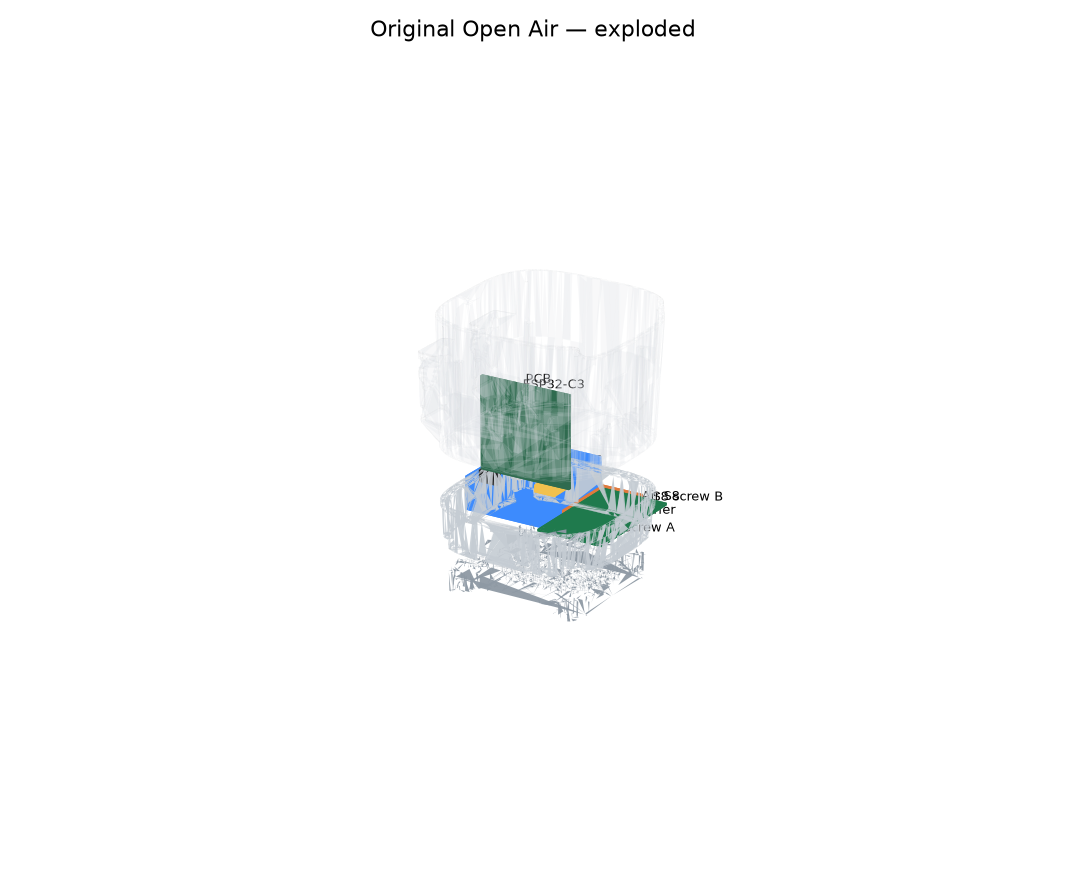
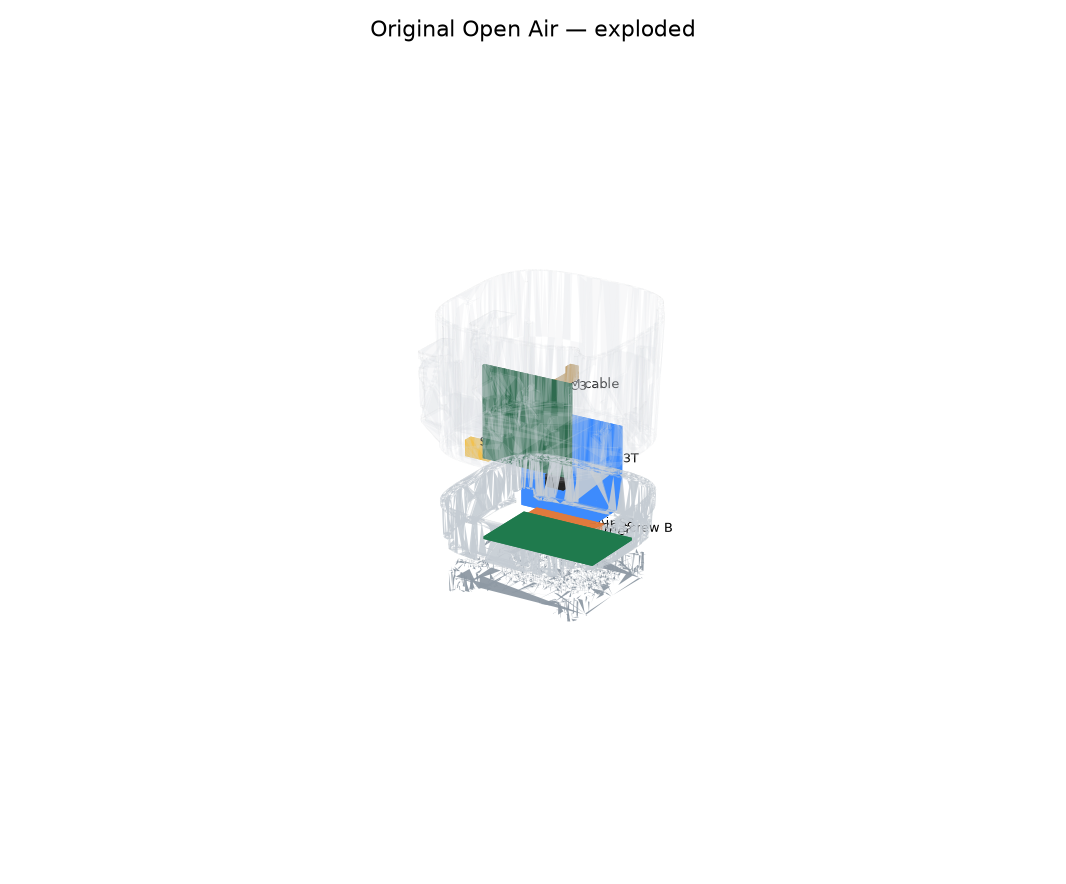
Stand the PMS5003T up behind the board.
The step-4 photo shows the sensor on end, inlet down and the cable leaving the top, not lying on the grill. The comparison render is now from that same front-left view with the cover off.

Changed region(s): [[0.4334, 0.3971, 0.6811, 0.6414]]

diff --git a/hardware/modular/enclosure/assembly/index.html b/hardware/modular/enclosure/assembly/index.html
@@ -114,7 +114,7 @@
     const DIMS = {
       "outdoor-flat": "A flat: 91.5 × 86.7 × 124 mm. Grill 3.2, base 28, cover 112. USB-C recess 18×14 mm in the base bottom. M8 Ø8.2. PM ports Ø16.",
       "outdoor-vertical": "B vertical: 91.5 × 86.7 × 106 mm. Grill 3.2, base 28, cover 94. Side bay 30 mm for a 22 mm pack plus a 4 mm PCM. Same USB, M8 and PM holes.",
-      "original": "Original O-1PST: grill down, cover up. PCB stands in the middle, USB-C on the bottom edge. PMS5003T lies flat behind it. SenseAir S8 is screwed to the floor. SGP41 faces out beside the USB. No separate SHT.",
+      "original": "Original O-1PST: grill down, cover up. PCB stands in the middle, USB-C on the bottom edge. PMS5003T stands behind it, inlet down, cable off the top. SenseAir S8 is screwed flat to the floor. No separate SHT.",
       "variant-1": "Previous variant 1. Not the three-part outdoor shell.",
       "variant-2": "Previous variant 2. Not the three-part outdoor shell.",
       "variant-3": "Previous variant 3. Not the three-part outdoor shell."

diff --git a/hardware/modular/enclosure/render_original_assembly.py b/hardware/modular/enclosure/render_original_assembly.py
@@ -22,34 +22,30 @@ ROOT = Path(__file__).resolve().parent
 REF = ROOT / "reference-outdoor"
 RENDERS = ROOT / "renders"
 
-# name, color, center (mm), size (mm)
-# Board pose: USB edge toward the cover's -X bulge, 57 mm running inward,
-# 44 mm vertical, sheet parallel to the XZ plane. See the README.
-# Pose from the O-1PST assembly photos, not from a guessed side-wall mount.
-# The board stands in the middle of the ring. Its short edge (USB, LED, button,
-# SGP41) is the bottom edge. High KiCad X is down. KiCad Y runs along world X,
-# with the USB end toward -X. The sheet is thin in Y: the PMS5003T is behind
-# it (+Y) and the SenseAir carrier is on the floor to its right (+X).
-# KiCad: USB1 (168, 67.37), D2 (166.57, 76.91), SW1 (167.80, 81.06),
-# I2C1 (165.74, 101.53), U2 (124, 83.4). Edge x 113.31..170.34, y 61.41..105.37.
+# Step-4 photo: the board stands in front of a PMS5003T that is also standing,
+# inlet end down on the tray, cable off the top. High KiCad X is down. High
+# KiCad Y (the SGP41 socket) is to the left. The sheet is thin in Y.
+# USB1 (168, 67.37), D2 (166.57, 76.91), SW1 (167.80, 81.06),
+# I2C1 (165.74, 101.53), U2 (124, 83.4), PM1 (141.71, 70.50).
 def _x(pcb_y):
-    return -22.0 + (pcb_y - 61.41)
+    return -30.0 + (105.37 - pcb_y)
 
 def _z(pcb_x):
-    return 16.0 + (170.34 - pcb_x)
+    return 14.0 + (170.34 - pcb_x)
 
 PARTS = [
-    ("PCB", "#2f6b4f", (0.0, -18.0, 44.5), (44.0, 1.6, 57.0)),
-    ("ESP32-C3", "#6b4c9a", (_x(83.40), -20.2, _z(124.00)), (13.2, 2.4, 16.6)),
-    ("USB-C", "#222222", (_x(67.37), -21.0, 14.2), (9.0, 3.2, 7.5)),
-    ("LED", "#f4f1ea", (_x(76.91), -20.4, _z(166.57)), (3.0, 2.4, 4.0)),
-    ("Button", "#d0d0d0", (_x(81.06), -20.6, _z(167.80)), (4.5, 3.0, 3.5)),
-    ("SGP41", "#f2c14e", (_x(101.53), -26.0, _z(165.74)), (10.0, 12.0, 4.5)),
-    ("PMS5003T", "#3d8bfd", (-16.0, 14.0, 22.0), (38.0, 50.0, 21.0)),
-    ("CO2 carrier", "#1f7a4d", (20.0, 12.0, 12.3), (32.0, 54.0, 1.6)),
-    ("SenseAir S8", "#e07a3d", (20.0, 12.0, 17.4), (20.0, 33.5, 8.5)),
-    ("S8 screw A", "#555555", (33.0, -8.0, 14.2), (4.0, 4.0, 3.0)),
-    ("S8 screw B", "#555555", (33.0, 32.0, 14.2), (4.0, 4.0, 3.0)),
+    ("PCB", "#2f6b4f", (-8.0, -4.0, 42.5), (44.0, 1.6, 57.0)),
+    ("ESP32-C3", "#6b4c9a", (_x(83.40), -5.8, _z(124.00)), (13.2, 2.4, 16.6)),
+    ("USB-C", "#222222", (_x(67.37), -6.2, 11.5), (9.0, 3.2, 7.5)),
+    ("LED", "#f4f1ea", (_x(76.91), -5.6, _z(166.57)), (3.0, 2.4, 4.0)),
+    ("Button", "#d0d0d0", (_x(81.06), -5.8, _z(167.80)), (4.5, 3.0, 3.5)),
+    ("SGP41", "#f2c14e", (_x(101.53) - 6.0, -4.0, _z(165.74)), (12.0, 4.5, 10.0)),
+    # 50 mm tall, 38 mm wide, 21 mm deep. Bottom face is the inlet. Outlet is up.
+    ("PMS5003T", "#3d8bfd", (2.0, 16.0, 37.0), (38.0, 21.0, 50.0)),
+    ("CO2 carrier", "#1f7a4d", (16.0, -18.0, 12.4), (54.0, 32.0, 1.6)),
+    ("SenseAir S8", "#e07a3d", (16.0, -18.0, 17.4), (33.5, 20.0, 8.5)),
+    ("S8 screw A", "#555555", (0.0, -28.0, 14.4), (4.0, 4.0, 3.0)),
+    ("S8 screw B", "#555555", (32.0, -8.0, 14.4), (4.0, 4.0, 3.0)),
 ]
 
 
@@ -70,8 +66,22 @@ def load_shells():
     return base, grill, cover
 
 
+def _cable():
+    # From the outlet on top of the standing PMS5003T, forward, down to PM1.
+    segments = [
+        ((2.0, 16.0, 66.0), (4.0, 4.0, 8.0)),
+        ((4.0, 6.0, 66.0), (4.0, 18.0, 4.0)),
+        ((5.0, -2.0, 54.0), (4.0, 4.0, 24.0)),
+    ]
+    parts = [box_mesh(c, s) for c, s in segments]
+    mesh = trimesh.util.concatenate(parts)
+    return "PM cable", "#c4a574", mesh
+
+
 def component_meshes():
-    return [(name, color, box_mesh(center, size)) for name, color, center, size in PARTS]
+    meshes = [(name, color, box_mesh(center, size)) for name, color, center, size in PARTS]
+    meshes.append(_cable())
+    return meshes
 
 
 def build_scene(exploded=False):
@@ -103,7 +113,7 @@ def export_glb():
     return path
 
 
-def _frame(path, view, elev, azim, exploded=False, section=False):
+def _frame(path, view, elev, azim, exploded=False, section=False, hide_cover=False):
     base, grill, cover = load_shells()
     if exploded:
         grill.apply_translation([0, 0, -28])
@@ -117,14 +127,16 @@ def _frame(path, view, elev, azim, exploded=False, section=False):
     ax = fig.add_subplot(111, projection="3d")
     add_mesh(ax, base, "#c5ccd3", 0.9)
     add_mesh(ax, grill, "#8e99a4", 0.95)
-    add_mesh(ax, cover, "#d9dde3", 0.18 if not section else 0.55)
-    for name, color, center, size in PARTS:
-        mesh = box_mesh(center, size)
-        if exploded and name in ("PCB", "ESP32-C3", "USB-C", "LED", "Button", "SGP41"):
+    if not hide_cover:
+        add_mesh(ax, cover, "#d9dde3", 0.18 if not section else 0.55)
+    board = {"PCB", "ESP32-C3", "USB-C", "LED", "Button", "SGP41", "PM cable"}
+    for name, color, mesh in component_meshes():
+        if exploded and name in board:
+            mesh = mesh.copy()
             mesh.apply_translation([0, 0, 28])
-            center = (center[0], center[1], center[2] + 28)
         add_mesh(ax, mesh, color, 1)
-        ax.text(center[0], center[1], center[2] + size[2] / 2 + 1.2, name, fontsize=7)
+        c = mesh.centroid
+        ax.text(c[0], c[1], c[2] + 2, name, fontsize=7)
     lo, hi = scene_bounds([base, cover, grill])
     span = (hi - lo).max() / 2 + (28 if exploded else 8)
     c = (lo + hi) / 2
@@ -179,6 +191,8 @@ def main():
     _frame(RENDERS / "original-assembly-top.png", "top", 90, 0)
     _frame(RENDERS / "original-assembly-section.png", "section", 18, -70, section=True)
     _frame(RENDERS / "original-exploded.png", "exploded", 22, -58, exploded=True)
+    # Same view as assembly step 4: cover off, from the front-left, looking down.
+    _frame(RENDERS / "original-assembly-step4.png", "step 4 angle", 30, -125, hide_cover=True)
     legend()
 
 

diff --git a/hardware/modular/enclosure/README.md b/hardware/modular/enclosure/README.md
@@ -57,9 +57,9 @@ There is no separate SHT. Temperature and humidity are read inside the PMS5003T.
 | --- | --- | --- |
 | White cover up, blue grill down, USB-C plugged into the blue end beside the LED hole and the button slot | Closed unit, photo `unnamed-9` | Grill at the bottom (z = 0), cover sleeved on from above. USB, LED and button are on the bottom edge of the board |
 | SGP41 plugged into the socket on the same edge as the USB, facing out, with the button and LED between it and the USB | Step 1, photo `unnamed-2`, and the bare board in step 4's wiring photo `unnamed-5` | Socket I2C1. The module sticks out past that edge. Thickness 4.5 mm is still a guess; the 10 × 12 mm outline is the KiCad edge |
-| SenseAir carrier lying flat in the blue tray, silver S8 on top, two screws into the tray | Step 2, photo `unnamed-3` | Carrier on the floor to the right of the board. The two screws are on the carrier. The main PCB has no holes for them |
-| PMS5003T cable on the end that also has the small port. Label side is the top face | Step 3, photo `unnamed-4` | Flat behind the board, label up, that cable end toward the board. Inlet end is the far end. That end-to-end reading is from the loose sensor photo, not from an arrow in the tray |
-| Board standing in the middle of the tray, PM flat behind it, S8 still on the floor to the right, USB at the bottom edge | Step 4, photo `unnamed-6` | Board plane is vertical, 57 mm tall, 44 mm across, USB edge down. ESP32-C3 is on the upper half, at U2 |
+| SenseAir carrier lying flat in the blue tray, silver S8 on top, two screws into the tray. In step 4 it is still flat, on the right of the upright board | Step 2 photo `unnamed-3` and step 4 photo `unnamed-6` | Flat on the floor, in front of the right side of the board. The round STL is too tight for it to sit fully beside a standing 50 mm sensor, so it is forward of where the square molded tray holds it. The two screws are on the carrier |
+| PMS5003T stands on end behind the board. The cable and the embossed OUT are on the top edge. The large blue face is vertical | Step 4, photo `unnamed-6`, read against the loose sensor in step 3, photo `unnamed-4` | 50 mm tall, 38 mm wide, 21 mm deep. The bottom face is the inlet, on the grill. The outlet and the cable are on top, and the cable loops forward to the PM1 header |
+| Board standing in the middle, in front of the upright PM sensor, USB-C at the bottom edge, SGP41 socket in a pocket on the left | Step 4, photo `unnamed-6` | Board plane is vertical, 57 mm tall, 44 mm across, USB edge down. ESP32-C3 is on the upper half, at U2. The PM cable is the tan bar over the top of the sensor |
 | Four long screws close the case after the cover slides on. The photo is soap on a screw, not the bosses | Step 7, photo `unnamed-10`, and the four towers in `unnamed-3` and `unnamed-6` | Not modeled as STL bosses. The DIY ring does not have those four towers. The molded case in the photos does |
 
 The DIY STLs are not the injection-molded shell in the photos. The ring is round and open, with a separate grill, and the cover's only asymmetry is a bulge on −X. A ray sample of that bulge did not find a rectangular USB cutout. The USB is still aimed at the bottom edge, as in the photos. The round ring is tighter than the square molded tray, so the PM and the CO2 carrier meet the wall.
@@ -70,7 +70,7 @@ Sizes that are measured, not guessed: PCB 57.03 × 43.96 × 1.6 mm from the edge
 
 The production Open Air (O-1PST) is 91.5 × 86.7 × 85 mm in ASA ([spec sheet](https://www.airgradient.com/documents/spec-sheets/Spec_Sheet_AirGradient_Open_Air_O-1PST.pdf)). The [assembly instructions](https://www.airgradient.com/documentation/kb/kb-old-instructions-the-airgradient-open-air-outdoor-air-quality-monitor-o-1pst-kit-pcb-version-1.3) put the parts in the bottom shell and slide the top over a vertical PCB:
 
-- The Plantower PMS5003T lies flat in the bottom, behind the upright board, label up, over the grill. Temperature and humidity in that product are read inside the PMS5003T, not in free air.
+- The Plantower PMS5003T stands on its inlet end behind the upright board, cable and outlet on top. Temperature and humidity in that product are read inside the PMS5003T, not in free air.
 - The SenseAir S8 carrier is screwed flat to the floor of the bottom shell, to the side of the board.
 - The SGP41 is on the PCB's bottom edge, the same edge as the USB-C, facing outward.
 - The PCB stands in the middle. Its short edge, with the USB-C, LED and button, is the bottom edge. The LED shows on the bottom part.
